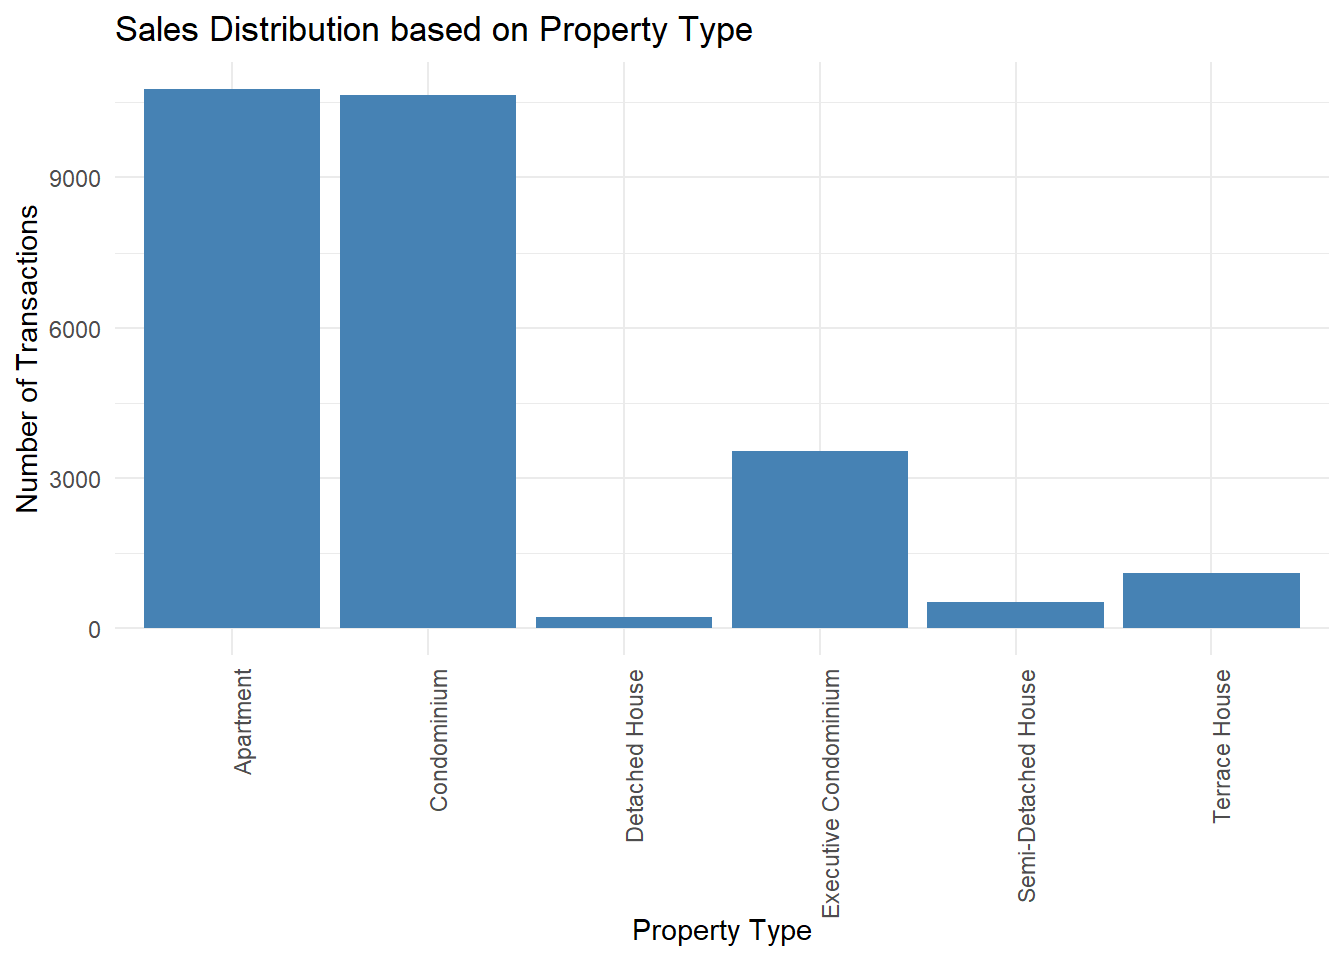
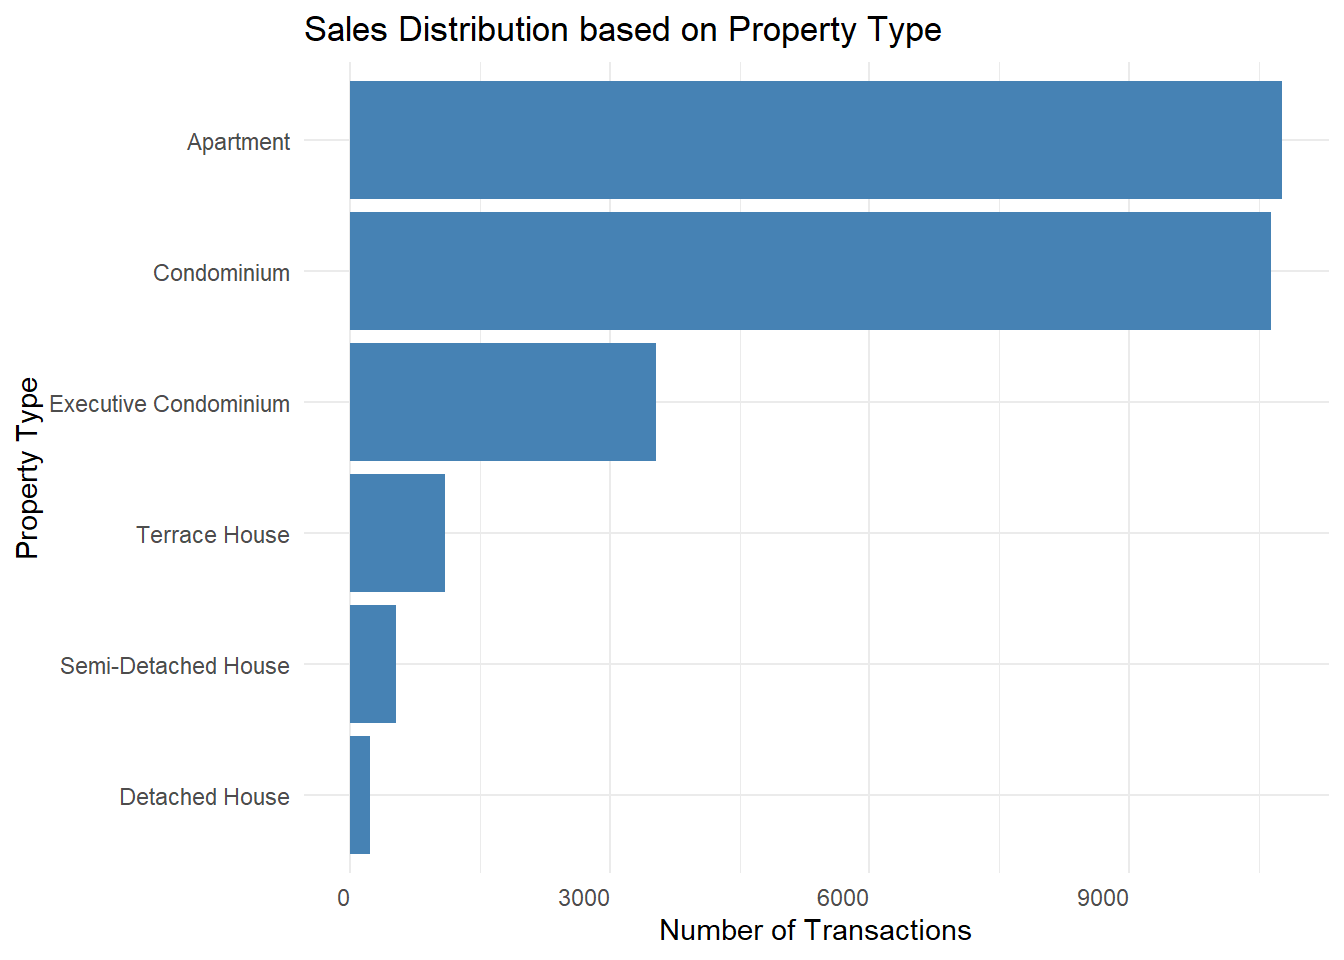
Commit changes to Take-home_Ex01
Update the position of barchart for easier reading

diff --git a/_site/Take-home_Ex/Take-home_Ex01/Take-home_Ex01.html b/_site/Take-home_Ex/Take-home_Ex01/Take-home_Ex01.html
@@ -665,13 +665,13 @@ Note
 <span id="cb32-4"><a href="#cb32-4" aria-hidden="true" tabindex="-1"></a>  <span class="fu">summarise</span>(<span class="at">Transactions =</span> <span class="fu">n</span>(), <span class="at">.groups =</span> <span class="st">'drop'</span>)</span>
 <span id="cb32-5"><a href="#cb32-5" aria-hidden="true" tabindex="-1"></a></span>
 <span id="cb32-6"><a href="#cb32-6" aria-hidden="true" tabindex="-1"></a><span class="co"># Now, we plot the distribution</span></span>
-<span id="cb32-7"><a href="#cb32-7" aria-hidden="true" tabindex="-1"></a>property_type_chart <span class="ot">&lt;-</span> <span class="fu">ggplot</span>(property_type_distribution, <span class="fu">aes</span>(<span class="at">x =</span> <span class="st">`</span><span class="at">Property Type</span><span class="st">`</span>, <span class="at">y =</span> Transactions)) <span class="sc">+</span></span>
-<span id="cb32-8"><a href="#cb32-8" aria-hidden="true" tabindex="-1"></a>  <span class="fu">geom_bar</span>(<span class="at">stat =</span> <span class="st">"identity"</span>, <span class="at">fill =</span> <span class="st">"steelblue"</span>) <span class="sc">+</span> <span class="co"># All bars in 'steelblue'</span></span>
+<span id="cb32-7"><a href="#cb32-7" aria-hidden="true" tabindex="-1"></a>property_type_chart <span class="ot">&lt;-</span> <span class="fu">ggplot</span>(property_type_distribution, <span class="fu">aes</span>(<span class="at">x =</span> Transactions, <span class="at">y =</span> <span class="fu">reorder</span>(<span class="st">`</span><span class="at">Property Type</span><span class="st">`</span>, Transactions))) <span class="sc">+</span></span>
+<span id="cb32-8"><a href="#cb32-8" aria-hidden="true" tabindex="-1"></a>  <span class="fu">geom_bar</span>(<span class="at">stat =</span> <span class="st">"identity"</span>, <span class="at">fill =</span> <span class="st">"steelblue"</span>, <span class="at">orientation =</span> <span class="st">"y"</span>) <span class="sc">+</span> <span class="co"># All bars in 'steelblue'</span></span>
 <span id="cb32-9"><a href="#cb32-9" aria-hidden="true" tabindex="-1"></a>  <span class="fu">theme_minimal</span>() <span class="sc">+</span></span>
 <span id="cb32-10"><a href="#cb32-10" aria-hidden="true" tabindex="-1"></a>  <span class="fu">labs</span>(<span class="at">title =</span> <span class="st">"Sales Distribution based on Property Type"</span>,</span>
-<span id="cb32-11"><a href="#cb32-11" aria-hidden="true" tabindex="-1"></a>       <span class="at">x =</span> <span class="st">"Property Type"</span>,</span>
-<span id="cb32-12"><a href="#cb32-12" aria-hidden="true" tabindex="-1"></a>       <span class="at">y =</span> <span class="st">"Number of Transactions"</span>) <span class="sc">+</span></span>
-<span id="cb32-13"><a href="#cb32-13" aria-hidden="true" tabindex="-1"></a>  <span class="fu">theme</span>(<span class="at">axis.text.x =</span> <span class="fu">element_text</span>(<span class="at">angle =</span> <span class="dv">90</span>, <span class="at">hjust =</span> <span class="dv">1</span>),</span>
+<span id="cb32-11"><a href="#cb32-11" aria-hidden="true" tabindex="-1"></a>       <span class="at">x =</span> <span class="st">"Number of Transactions"</span>,</span>
+<span id="cb32-12"><a href="#cb32-12" aria-hidden="true" tabindex="-1"></a>       <span class="at">y =</span> <span class="st">"Property Type"</span>) <span class="sc">+</span></span>
+<span id="cb32-13"><a href="#cb32-13" aria-hidden="true" tabindex="-1"></a>  <span class="fu">theme</span>(<span class="at">axis.text.x =</span> <span class="fu">element_text</span>(<span class="at">angle =</span> <span class="dv">0</span>, <span class="at">hjust =</span> <span class="dv">1</span>),</span>
 <span id="cb32-14"><a href="#cb32-14" aria-hidden="true" tabindex="-1"></a>        <span class="at">legend.position =</span> <span class="st">"none"</span>) <span class="co"># Remove legend</span></span>
 <span id="cb32-15"><a href="#cb32-15" aria-hidden="true" tabindex="-1"></a></span>
 <span id="cb32-16"><a href="#cb32-16" aria-hidden="true" tabindex="-1"></a><span class="co"># Print the plot</span></span>
